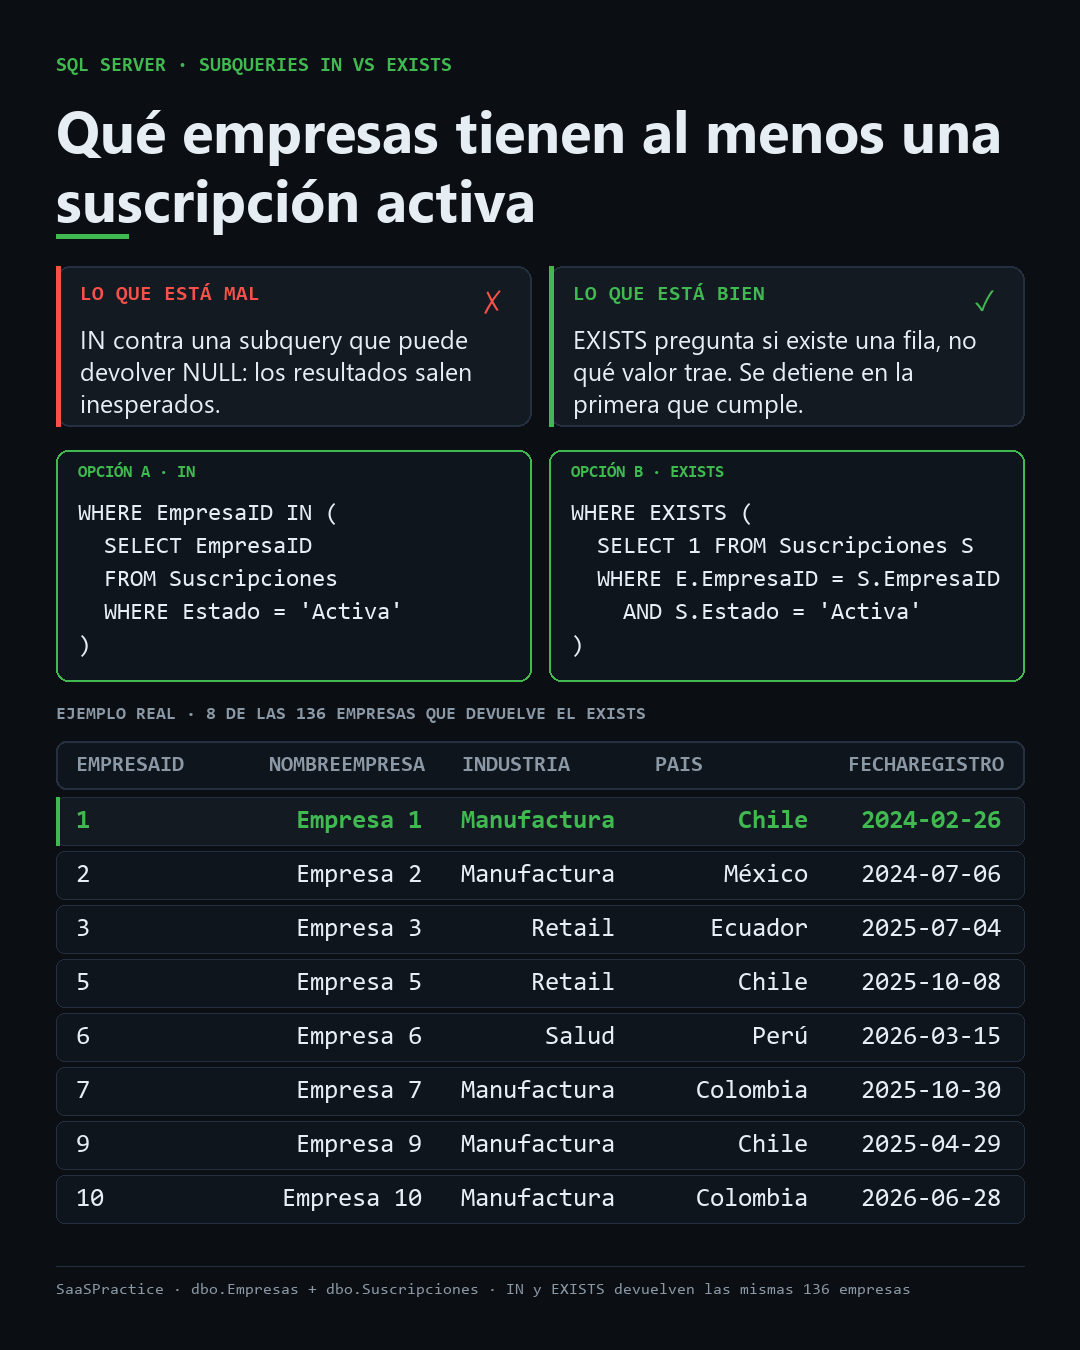
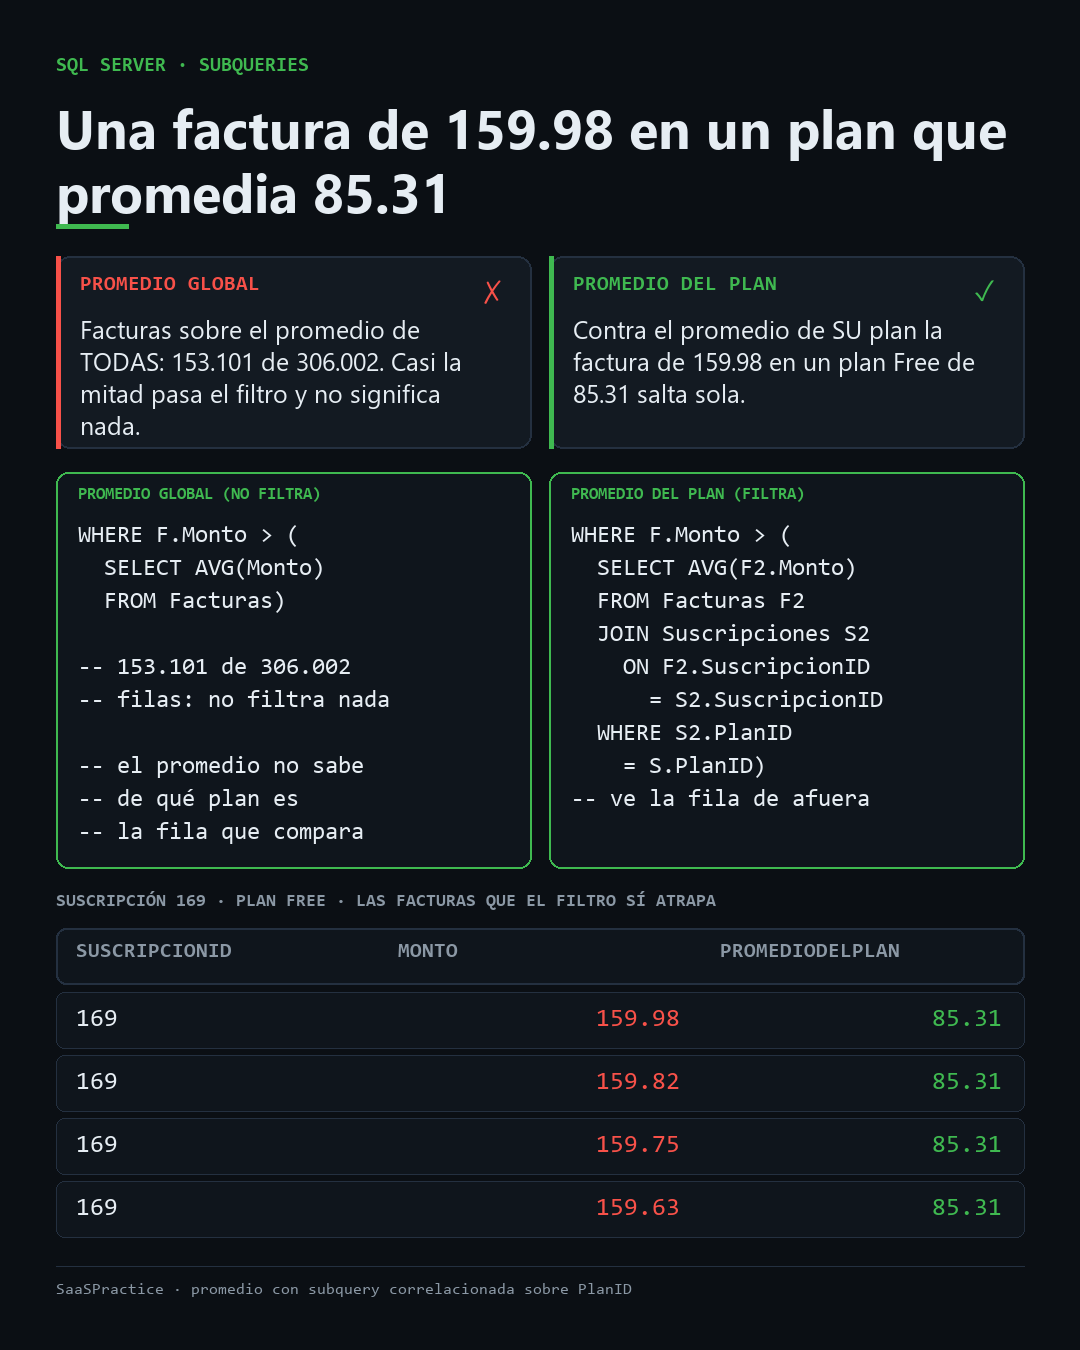
feat: new post format for section 16 and correlated subquery case

diff --git a/skills/linkedin-post-style/SKILL.md b/skills/linkedin-post-style/SKILL.md
@@ -61,8 +61,8 @@ REGLA:
   escribirse si el nodo Telegram de n8n tiene Parse Mode = None. Mientras el parse mode
   siga en Markdown, el guion bajo rompe el envio: escribe la funcion sin guion bajo
   ("la funcion de percentil acumulado") o pide que se corrija el nodo primero.
-- Emojis: 1 por bullet, set sobrio y profesional (🎯 📈 🧮 ⚠ ✅ 💡 📊 🔍 🧹). Nunca en los
-  hashtags, nunca 3 emojis en la misma linea.
+- Emojis: el cuerpo va en parrafos, no en bullets. Como maximo UN emoji en todo el post y
+  nunca en los hashtags. Si hace falta, va al final de la frase que resume el error.
 - Hashtags al final, en su propia linea: #SQL #DataAnalytics #AnalisisDeDatos (+ #SQLServer
   #BasesDeDatos #DataScience #AnalistaDeDatos).
 
@@ -106,6 +106,10 @@ de la ejecucion real.
   - `concept`: gancho grande, dos tarjetas ("lo que quieres" / "lo que obtienes"), el
     arreglo en SQL y abajo el ejemplo real. Para posts que explican un concepto o un
     error: retiene más que la query sola.
+- En `concept` la grilla tiene que contrastar DOS numeros: la columna que miente con badge
+  `bad` (✗) y la que sale bien con badge `good` (✓). Si en los datos reales las dos dan
+  practicamente el mismo valor, la imagen no comunica nada: se cambia de caso antes de
+  publicar, no se maquilla.
 - Los datos de la grilla salen de ejecutar el query (MCP SQL Server). Si no se ejecuto,
   no se inventa la grilla: se reduce a lo que la nota sustenta.
 - Coherencia obligatoria: el post describe EXACTAMENTE el query que aparece en la imagen.
@@ -129,19 +133,35 @@ de la ejecucion real.
 
 ## Estructura del post (formato aprobado por Andres — ARTE FINAL, usalo SIEMPRE)
 
-1. **Pregunta de negocio que resolvio ESTA consulta (1-2 lineas):** abre con el
-   problema/decision concreta que responde EL query de la foto (ej: "cuantos pedidos
-   caen en cada trimestre", "clientes sin nombre util"). No es un gancho generico de la
-   seccion: es LA pregunta que resuelve exactamente lo que muestra la captura. No frases
-   motivacionales.
-2. **Tips y consejos en bullets con emojis (5 bullets):** el cuerpo del post. Voz
-   primera persona, conversacional, estilo "tip/consejo": lo que hace cada parte del
-   query, el detalle que cuesta, la trampa que evita. Cada bullet un tip corto con un
-   emoji. NO es explicacion de manual ("Con X se calcula... SQL devuelve..."): suena
-   robotico y no despierta curiosidad. Es como se lo contarias a un colega.
+1. **Gancho: el sintoma, en primera persona (1-2 lineas).** Arranca con el momento en que
+   el dato no cuadraba, en voz de alguien que esta mirando el reporte: "Revisaba un
+   reporte y me encontre una columna que no daba lo que deberia". Va con el numero o el
+   sintoma concreto adentro, no antes.
+   - **PROHIBIDO** abrir con pregunta de negocio generica ("Que empresas tienen...",
+     "Como saber si..."): es el formato de manual, no de alguien que encontro el problema.
+   - **PROHIBIDO** abrir con lista de bullets: el cuerpo va en parrafos.
+2. **Cuerpo: 3-4 parrafos cortos (80-150 palabras en total).** Narrativo, no enumerativo.
+   Parrafo 1: que se estaba revisando y que se vio mal. Parrafo 2: por que pasaba, con lo
+   tecnico de la funcion o la sintaxis. Parrafo 3: como se resuelve y cual era la
+   alternativa. Parrafo 4 (opcional): que decision queda habilitada.
+   - Nada de "tips y consejos", nada de 5 bullets con emojis, nada de explicar la funcion
+     como si fuera el manual ("Con X se calcula..."). Se cuenta como se lo contarias a un
+     colega que esta mirando la misma pantalla.
 3. **Cierre nada mas (1-2 lineas):** el impacto concreto que habilita el query. Sin
-   lista, sin moraleja.
+   lista, sin moraleja, sin CTA.
 4. **Hashtags al final:** #SQL #DataAnalytics #AnalisisDeDatos (+ opcionales).
+
+## Caso de uso real (obligatorio)
+
+- Cada post responde UNA decision que alguien tomaria manana en un trabajo. Antes de
+  redactar, el drafter elige de la nota el ejercicio que mas se acerca a esa decision y lo
+  **ejecuta contra la base**: si el caso elegido no produce un contraste visible con los
+  datos reales, se descarta y se prueba otro ejercicio de la misma nota.
+- El criterio para descartar: si la columna "correcta" y la "que miente" dan practicamente
+  el mismo numero en los datos reales, la imagen no comunica nada y ese caso no sirve.
+  Con datos sinteticos hay que verificar el contraste, no asumirlo.
+- El post cuenta una sola historia: el caso que se ejecuto. No se anuncian otros
+  ejercicios de la nota aunque existan.
 
 REGLAS DE VERIFICACION OBLIGATORIAS:
 - Cada dato concreto DEBE existir literalmente en la nota de Obsidian fuente.

diff --git a/AGENTS.md b/AGENTS.md
@@ -14,7 +14,9 @@ proceso; las reglas de estilo viven en `skills/linkedin-post-style/SKILL.md`.
    y **no se usan modelos de visión** (quedaron descartados).
 3. **La imagen no lleva el nombre de Andres ni la marca.** El texto del post tampoco nombra a
    agentes, IA ni automatización.
-4. **5 bullets, 1 emoji cada uno**, cierre de 1-2 líneas de impacto y hashtags al final.
+4. **Formato narrativo**: gancho en primera persona con el síntoma concreto (1-2 líneas),
+   cuerpo en 3-4 párrafos cortos (80-150 palabras), cierre de 1-2 líneas y hashtags al
+   final. Nada de 5 bullets: ese formato quedó atrás, es el de manual.
 5. **La imagen se sube a GitHub antes de enviar el borrador.** El `imageUrl` es una URL
    `raw.githubusercontent.com`; sin push, n8n da 404 y no publica.
 6. **El webhook es el único disparador.** Insertar filas en la data table no ejecuta el
